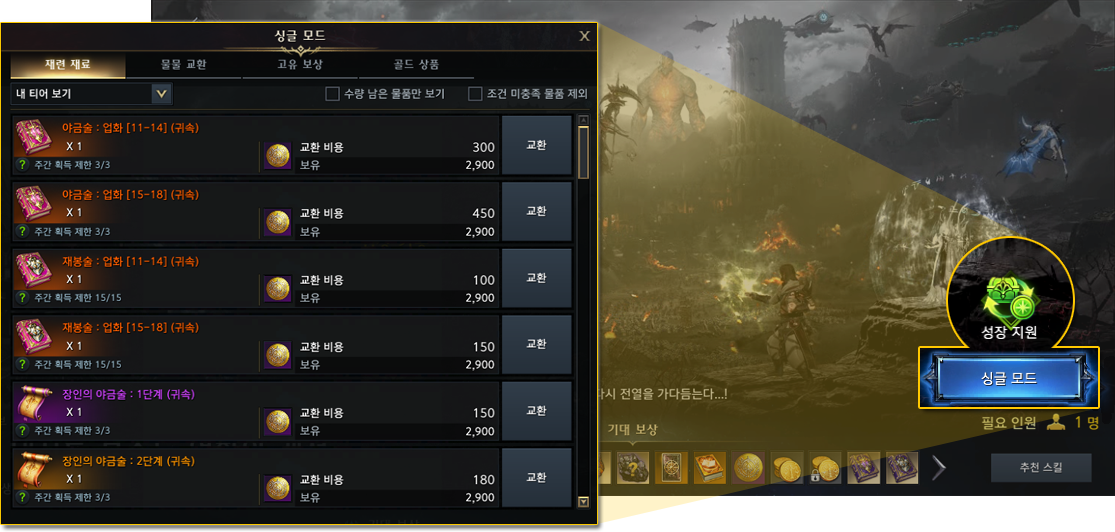
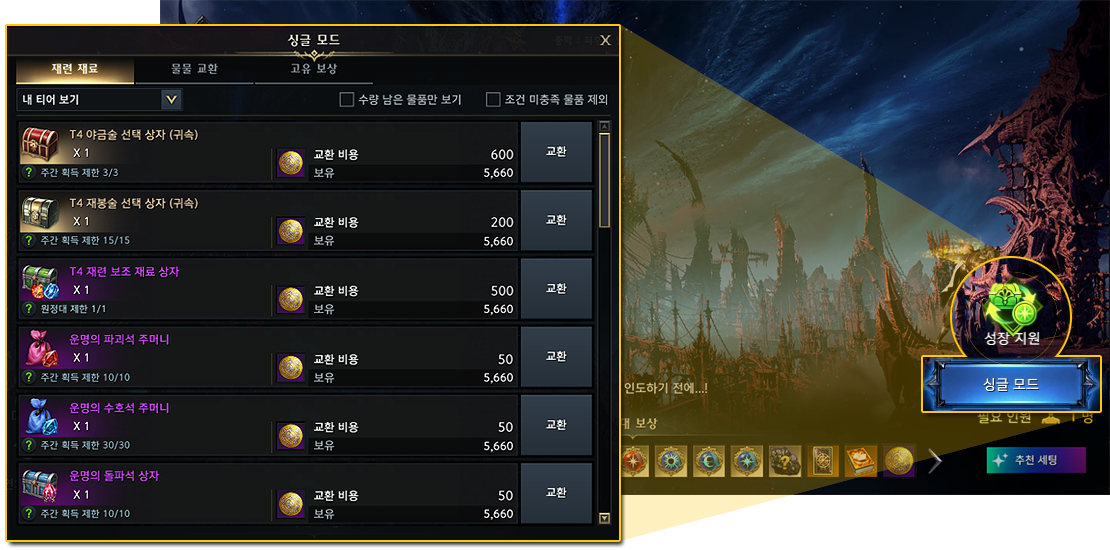
섹션 업데이트

diff --git a/content/section4.md b/content/section4.md
@@ -1,12 +1,17 @@
 
 # 4. 일일 콘텐츠
 
-## 쿠르잔 전선
-![이미지 31](https://raw.githubusercontent.com/N84jld3qhj/2026_winter_loaon_guide/main/images/0031.png)
+## 영웅의 공명
+
+![영웅의 공명](https://raw.githubusercontent.com/N84jld3qhj/2026_winter_loaon_guide/main/images/0264.png)
 
 [➡ 쿠르잔 전선](https://lostark.game.onstove.com/GameGuide/Pages/%EB%8D%98%EC%A0%84#h3-4)
 
-쿠르잔 전선은 제한 시간 내 몰아치는 적들을 처치하고, 성장 구간에 필요한 다양한 재화를 획득할 수 있는 던전입니다.
+매일 충전되는 공명의 기운을 사용하여 입장 가능한 컨텐츠입니다.
+
+레벨 구간에 따라 카오스 던전 / 쿠르잔 전선 / 혼돈의 균열로 나뉩니다. 이름만 다르지 진행 방식과 보상은 같습니다.
+
+제한 시간 내 몰아치는 적들을 처치하고, 성장 구간에 필요한 다양한 재화를 획득할 수 있는 던전입니다.
 
 보상으로 4티어 재련 재료(파편, 돌파석, 파괴석, 수호석), 젬, 유물 각인서 등을 얻을 수 있고 주기적으로 큐브 입장권을 획득할 수 있습니다.
 
@@ -20,7 +25,7 @@
 보석, 장신구, 팔찌, 젬, 유물 각인서 등을 얻을 수 있습니다.
 
 ### 편린
-![이미지 33](https://raw.githubusercontent.com/N84jld3qhj/2026_winter_loaon_guide/main/images/0033.png)
+![편린](https://raw.githubusercontent.com/N84jld3qhj/2026_winter_loaon_guide/main/images/0265.png)
 
 전선과 가토 중에는 낮은 확률로 편린을 획득할 수 있습니다.
 
@@ -42,6 +47,8 @@
 쉽게 말해서 3일동안 1번만 클리어하면 2회치 보상을 얻을 수 있는 시스템입니다. 일일숙제를 할 시간이 부족하거나 낮은 레벨의 캐릭터라서 보상이 적어서 시간이 아깝거나 하는 경우 사용하시면 되는 시스템입니다.
 
 ### 아제나의 축복
+
+![이미지 226](https://raw.githubusercontent.com/N84jld3qhj/2026_winter_loaon_guide/main/images/0226.png)  
 
 아제나의 축복은 캐릭터별로 적용되는 과금 시스템으로 구매 시 쿠르잔 전선과 가디언 토벌에서 축복의 편린을 추가적으로 획득할 수 있습니다. 
 

diff --git a/content/section8.md b/content/section8.md
@@ -6,6 +6,8 @@
 
 ## 스펙업 순서
 
+![아이템 레벨 제한](https://raw.githubusercontent.com/N84jld3qhj/2026_winter_loaon_guide/main/images/0268.png)
+
 로아는 레이드 입장 조건을 **아이템 레벨**로 설정하고 있습니다. 그래서 아이템 레벨만 넘으면 입장이 가능한데 클리어가 가능한건 아닙니다.
 
 시즌2까지는 아이템 레벨을 제외한 스펙업 요소가 많지 않아서 아이템 레벨만 봐도 충분했지만 시즌3는 아이템 레벨만으로는 제대로된 스펙을 보는게 힘들어졌고 전투력이라는 시스템이 나오게 됐습니다.
@@ -565,9 +567,14 @@
 
 [➡ 아크 그리드 사이트](#아크-그리드) 아크 그리드 관련 외부 사이트입니다. 잼을 깎거나 착용할 때 도움을 받을 수 있는 사이트들입니다.
 
+### 젬 자동 장착
 ![이미지 246](https://raw.githubusercontent.com/N84jld3qhj/2026_winter_loaon_guide/main/images/0246.png)
 
-로아온 업데이트에서 젬 자동 장착 기능이 추가되었습니다. 하지만 전투력을 기준으로 젬을 장착하기 때문에 젬이 제대로 깎이지 않은 상태에서 사용한다면 하나의 코어에 젬이 몰리는 현상이 있어서 사용해보고 제대로 코어 옵션들이 활성화 되지 않는다면 외부 사이트를 사용해보시는걸 추천드립니다.
+젬 자동 장착 기능을 사용해 자동으로 젬 세팅을 할 수 있습니다. 
+
+하지만 전투력을 기준으로 젬을 장착하기 때문에 찐빠가 많이 납니다.
+
+젬이 제대로 깎이지 않은 상태에서 사용한다면 하나의 코어에 젬이 몰리는 현상이 있어서 사용해보고 제대로 코어 옵션들이 활성화 되지 않는다면 외부 사이트를 사용해보시는걸 추천드립니다.
 
 
 ## 완갑

diff --git a/content/section9.md b/content/section9.md
@@ -10,7 +10,8 @@
 
 내실은 캐릭터 스펙에 가장 기본이 되는 요소이며, 골드로 구매가 불가능하기 때문에 시간을 들여서 직접 작업을 진행해야 합니다.
 
-![이미지 105](https://raw.githubusercontent.com/N84jld3qhj/2026_winter_loaon_guide/main/images/0105.png)
+![내실 아이템 사전](https://raw.githubusercontent.com/N84jld3qhj/2026_winter_loaon_guide/main/images/0269.png)
+
 
 게임 내 아이템 사전(Alt + D)을 통해 내실 관련 획득 정보를 쉽게 확인할 수 있습니다.
 
@@ -355,9 +356,9 @@
 
 카드는 2가지 효과가 있습니다.
 
-![이미지 151](https://raw.githubusercontent.com/N84jld3qhj/2026_winter_loaon_guide/main/images/0151.png)
+![카드 누적 효과](https://raw.githubusercontent.com/N84jld3qhj/2026_winter_loaon_guide/main/images/0279.png)
 
-**수집 효과** 카드를 수집하여 도감을 완성했을 때 얻는 효과입니다. 4번에 누적 도감 효과를 보시면 됩니다.
+**수집 효과** 카드를 수집하여 도감을 완성했을 때 얻는 효과입니다. 
 
 수집 효과는 모든 카드를 5각성을 해야 완성이 됩니다. 장착 효과가 없는 카드라도 도감에서 효과를 받기 위해 5각성을 해야한다는 의미인데 이게 뉴비들은 굉장히 어렵습니다. 카드를 모으는것 자체도 어렵고 카드 경험치 모으는것도 어렵습니다.
 

diff --git a/content/section7.md b/content/section7.md
@@ -32,11 +32,11 @@
 
 낮은 레벨의 캐릭터라도 동일하게 편린 보상이 나와서 저레벨 캐릭터에 아제나의 축복을 사주고 편린에서 나온 골드를 키우는 캐릭에 몰아주는 방식으로 사용할수도 있습니다.
 
-## 큐브/할의 모래시계
+## 할의 유산
 
 ![이미지 20](https://raw.githubusercontent.com/N84jld3qhj/2026_winter_loaon_guide/main/images/0020.png)
 
-큐브/할의 모래시계는 쿠르잔 전선을 돌아 얻을 수 있는 입장권을 사용하여 입장 가능하며 클리어 보상으로 보석, 돌파석(귀속), 숨결(귀속), 각인서를 얻을 수 있습니다.
+할의 유산(큐브/할의 모래시계)은 영웅의 공명을 돌아 얻을 수 있는 입장권을 사용하여 입장 가능하며 클리어 보상으로 보석, 돌파석(귀속), 숨결(귀속), 각인서를 얻을 수 있습니다.
 
 각인서의 경우 낮은 확률이지만 유효 유물 각인서가 나올 경우 상당한 골드를 벌 수 있습니다.
 
